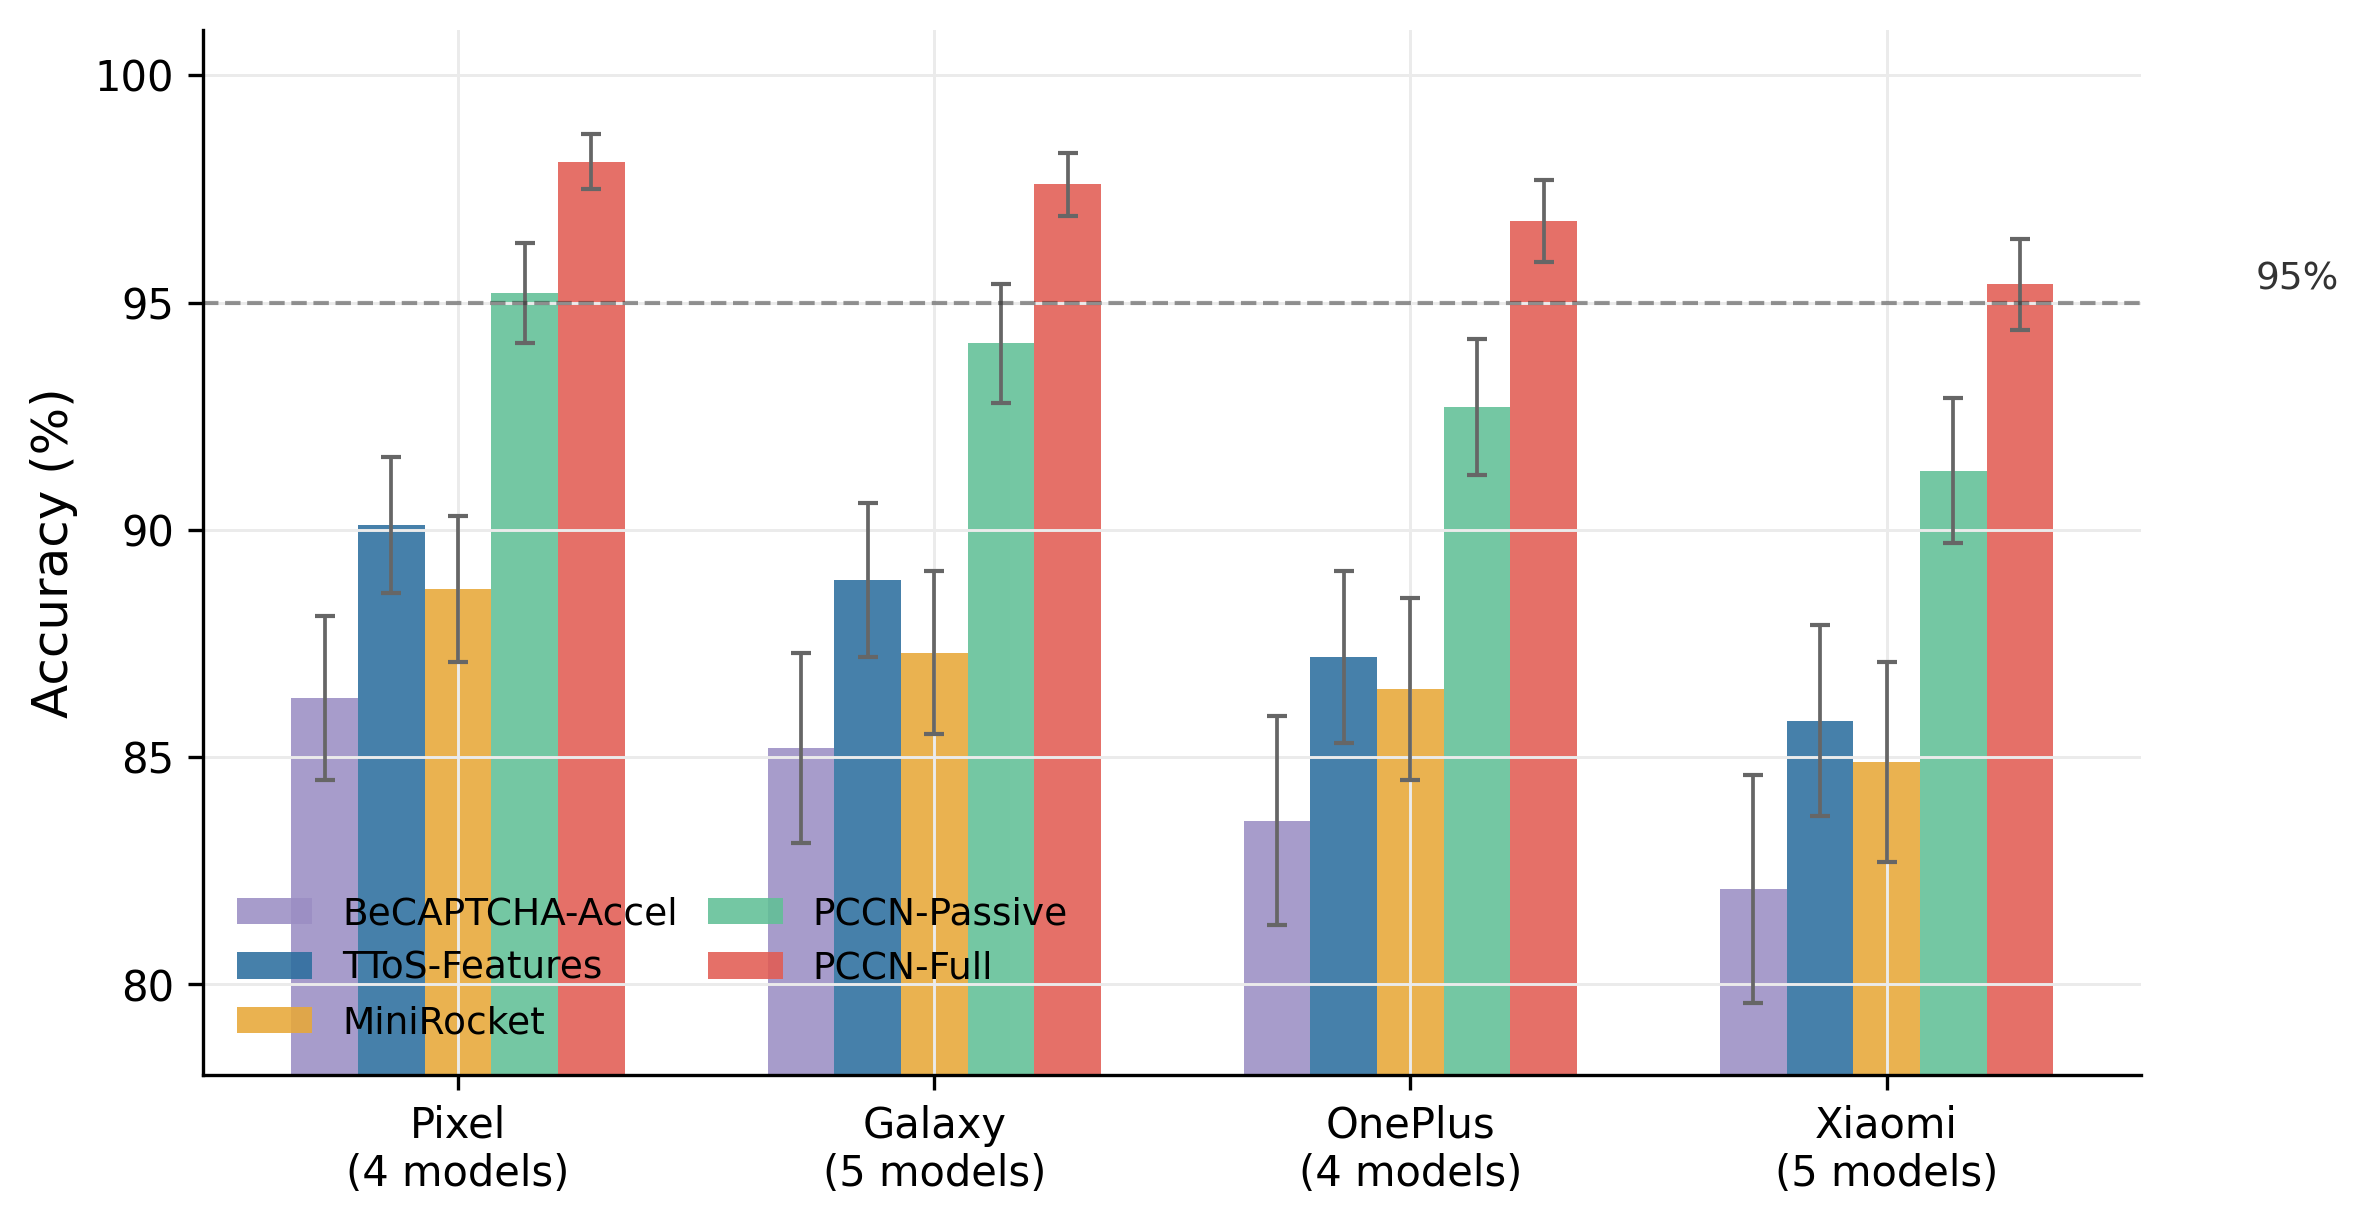
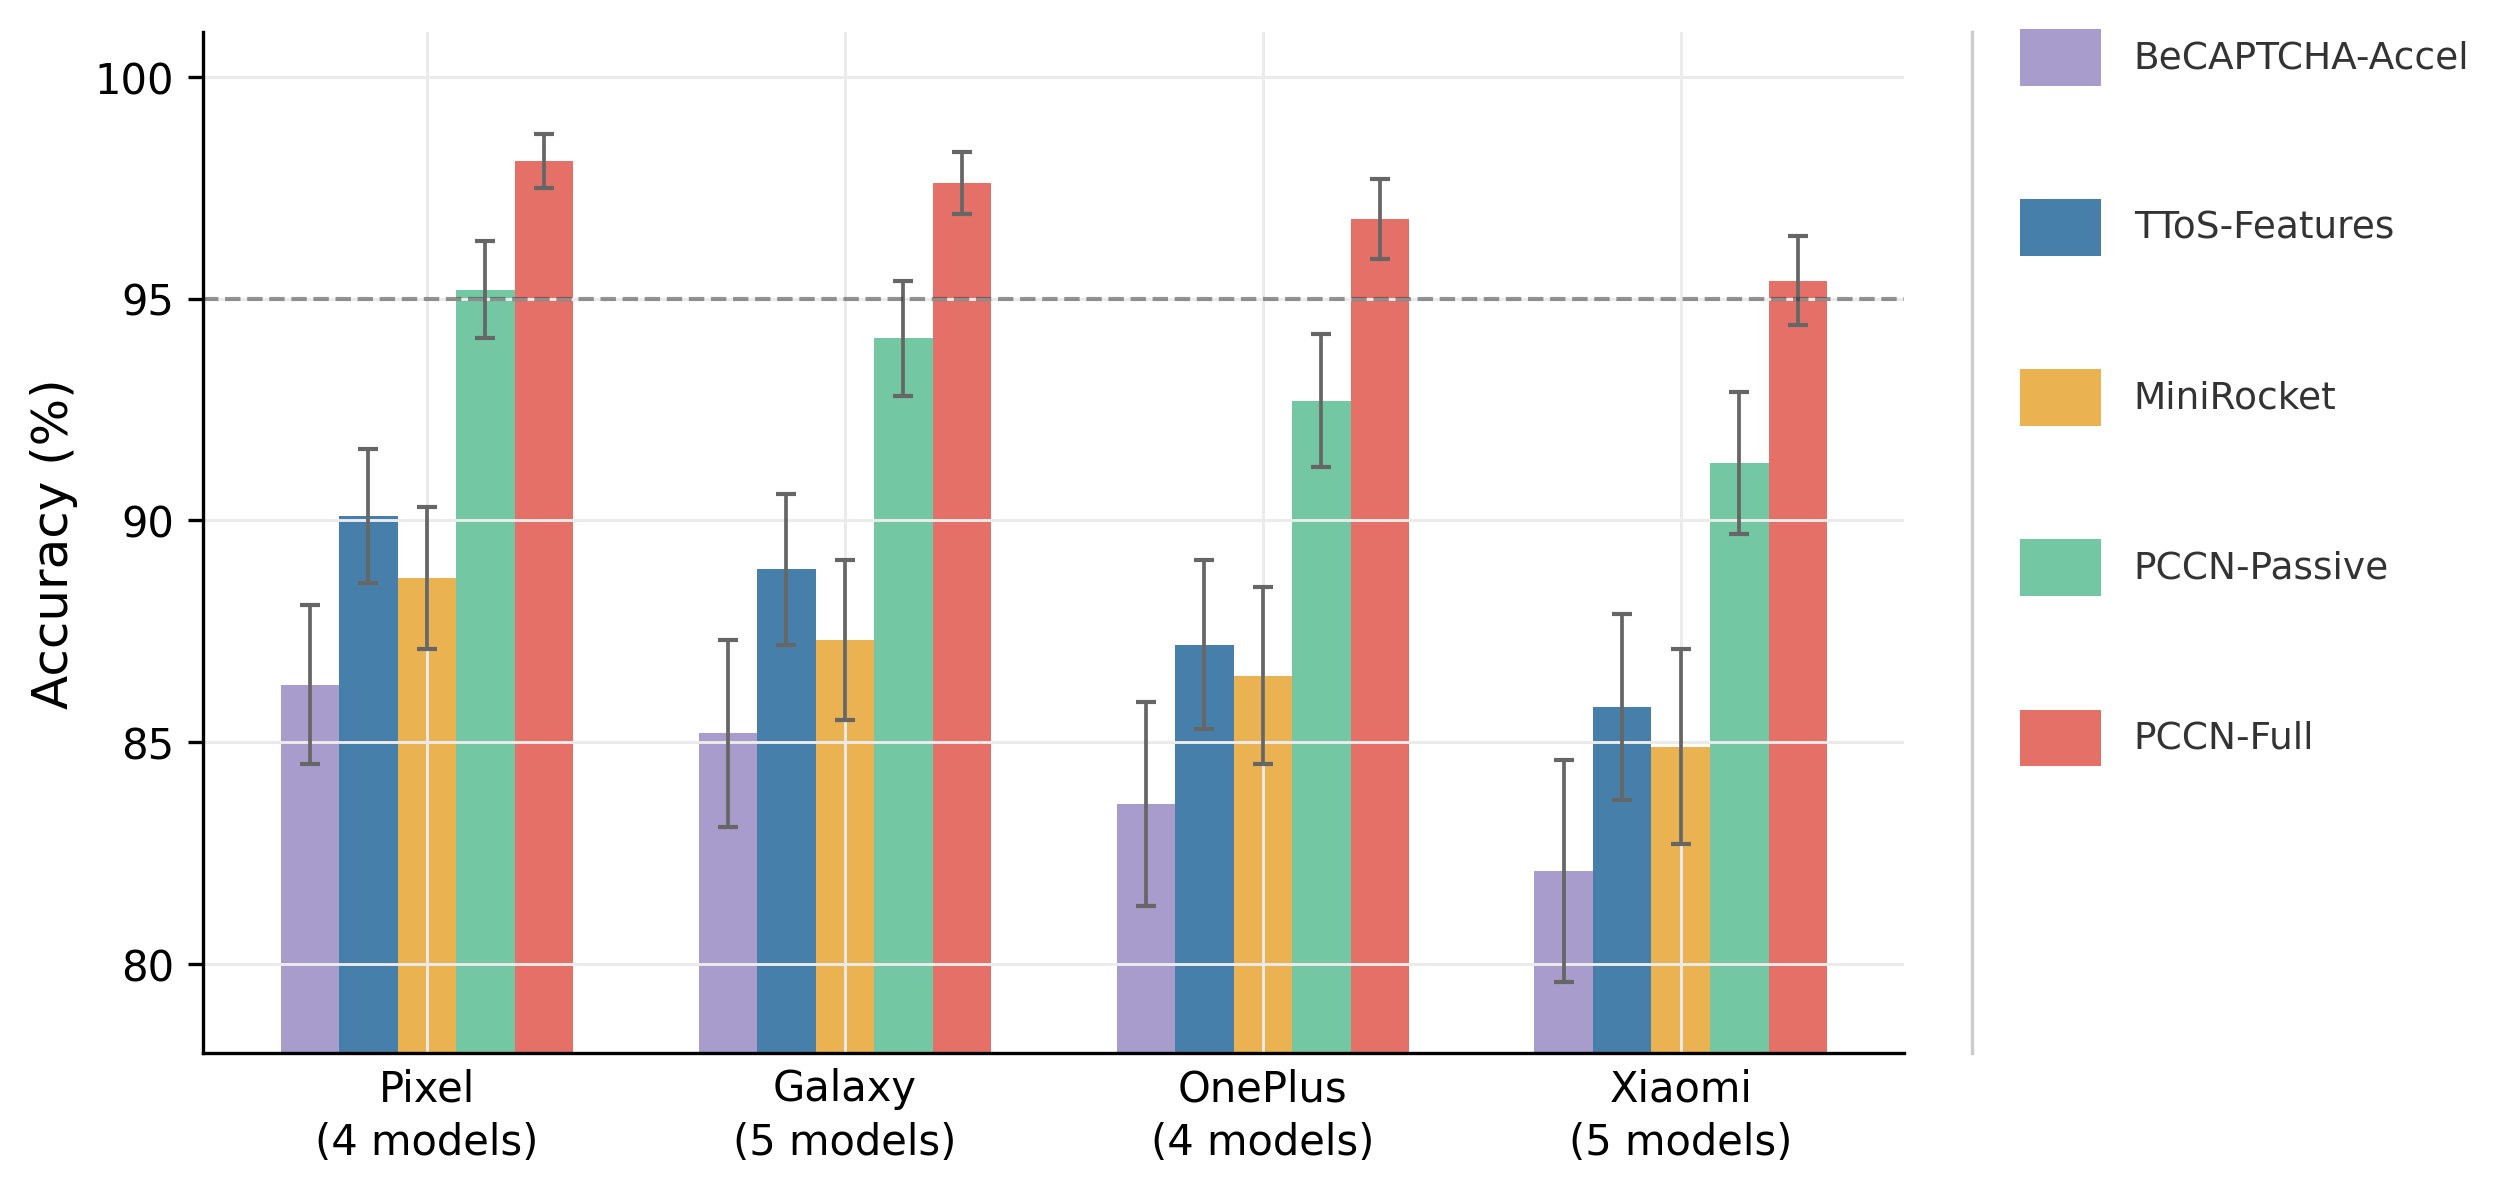
Update figures and drawing script

diff --git a/figures/draw_all.py b/figures/draw_all.py
@@ -193,9 +193,7 @@ def fig_obs3():
     ax.set_xlabel('t-SNE Dim 1')
     ax.set_ylabel('t-SNE Dim 2')
     ax.set_xticks([]); ax.set_yticks([])
-    ax.legend(frameon=False, loc='upper right', markerscale=1.5)
-    ax.text(0.02, 0.02, 'Silhouette score = 0.81',
-            transform=ax.transAxes, fontsize=9, color='#444444')
+    ax.legend(frameon=False, loc='upper left', markerscale=1.5)
     fig.tight_layout()
     fig.savefig(OUT + 'fig_obs3.png')
     plt.close()
@@ -210,7 +208,7 @@ def fig_roc():
         """Parameterized ROC via beta distribution trick."""
         fpr = np.linspace(0, 1, 500)
         # use power curve shape
-        k = np.log(0.5) / np.log(1 - eer)
+        k = np.log(eer) / np.log(1 - eer)
         tpr = 1 - (1 - fpr)**k
         return fpr, np.clip(tpr, 0, 1)
 
@@ -237,9 +235,12 @@ def fig_roc():
     ax.set_xlabel('False Positive Rate (%)')
     ax.set_ylabel('True Positive Rate (%)')
     ax.set_xlim(0, 20); ax.set_ylim(80, 100)
-    ax.legend(frameon=False, loc='lower right', fontsize=9)
-    ax.text(0.55, 0.08, '★ EER point',
-            transform=ax.transAxes, fontsize=9, color='#555555')
+    from matplotlib.lines import Line2D
+    star_handle = Line2D([0], [0], marker='*', color='#555555',
+                         linestyle='None', markersize=8, label='★ EER point')
+    handles, labels = ax.get_legend_handles_labels()
+    ax.legend([star_handle] + handles, ['★ EER point'] + labels,
+              frameon=False, loc='lower right', fontsize=9)
     fig.tight_layout()
     fig.savefig(OUT + 'fig_roc.png')
     plt.close()
@@ -278,26 +279,65 @@ def fig_crossdevice():
     bw = 0.14
     x  = np.arange(n_groups)
 
-    fig, ax = plt.subplots(figsize=(8, 4.2))
+    # Leave right margin for a dedicated legend column
+    fig, ax = plt.subplots(figsize=(9, 4.2))
+    fig.subplots_adjust(left=0.09, right=0.72, bottom=0.14, top=0.95)
+
     offsets = np.linspace(-(n_bars-1)/2*bw, (n_bars-1)/2*bw, n_bars)
 
     for (name, vals), err, offset in zip(data.items(), errs.values(), offsets):
-        bars = ax.bar(x + offset, vals, bw,
-                      color=colors_map[name], alpha=0.88,
-                      label=name, yerr=err, capsize=2.5,
-                      error_kw={'elinewidth': 0.9, 'ecolor': '#666'})
+        ax.bar(x + offset, vals, bw,
+               color=colors_map[name], alpha=0.88,
+               label=name, yerr=err, capsize=2.5,
+               error_kw={'elinewidth': 0.9, 'ecolor': '#666'})
 
     ax.axhline(95, color='#333333', lw=1.0, ls='--', alpha=0.5)
-    ax.text(n_groups - 0.05, 95.3, '95%', fontsize=9, color='#333333', ha='right')
 
+    # Device family names stay on the x-axis
     ax.set_xticks(x)
-    ax.set_xticklabels(families)
+    ax.set_xticklabels(families, fontsize=10, linespacing=1.35)
+    ax.tick_params(axis='x', length=0)
     ax.set_ylabel('Accuracy (%)')
     ax.set_ylim(78, 101)
-    ax.legend(frameon=False, loc='lower left',
-              ncol=2, fontsize=9, columnspacing=0.8)
-    fig.tight_layout()
-    fig.savefig(OUT + 'fig_crossdevice.png')
+
+    # Force layout before reading positions
+    fig.canvas.draw()
+    ax_pos = ax.get_position()
+
+    # Thin separator line at the right edge of the plot
+    sep_x = ax_pos.x1 + 0.025
+    fig.add_artist(plt.Line2D(
+        [sep_x, sep_x], [ax_pos.y0, ax_pos.y1],
+        transform=fig.transFigure, color='#CCCCCC', lw=0.8
+    ))
+
+    # Draw legend entries manually as a right-side column:
+    # color patch on the left, label text to its right, stacked top→bottom
+    methods = list(data.keys())       # top-to-bottom order
+    col_x   = sep_x + 0.018          # left edge of legend column
+    patch_w = 0.030                   # patch width in figure coords
+    patch_h = 0.045                   # patch height in figure coords
+    row_gap = 0.135                   # vertical spacing between rows
+
+    n_methods = len(methods)
+    top_y = ax_pos.y1 - 0.02         # start just below axes top
+
+    for i, name in enumerate(methods):
+        y_center = top_y - i * row_gap
+        # Color patch
+        rect = plt.Rectangle(
+            (col_x, y_center - patch_h / 2), patch_w, patch_h,
+            transform=fig.transFigure, clip_on=False,
+            facecolor=colors_map[name], alpha=0.88, linewidth=0
+        )
+        fig.add_artist(rect)
+        # Label text
+        fig.text(col_x + patch_w + 0.012, y_center, name,
+                 va='center', ha='left', fontsize=9, color='#333333',
+                 transform=fig.transFigure)
+
+    fig.savefig(OUT + 'fig_crossdevice.png', dpi=300, bbox_inches='tight',
+                facecolor='white')
     plt.close()
     print('fig_crossdevice done')
 